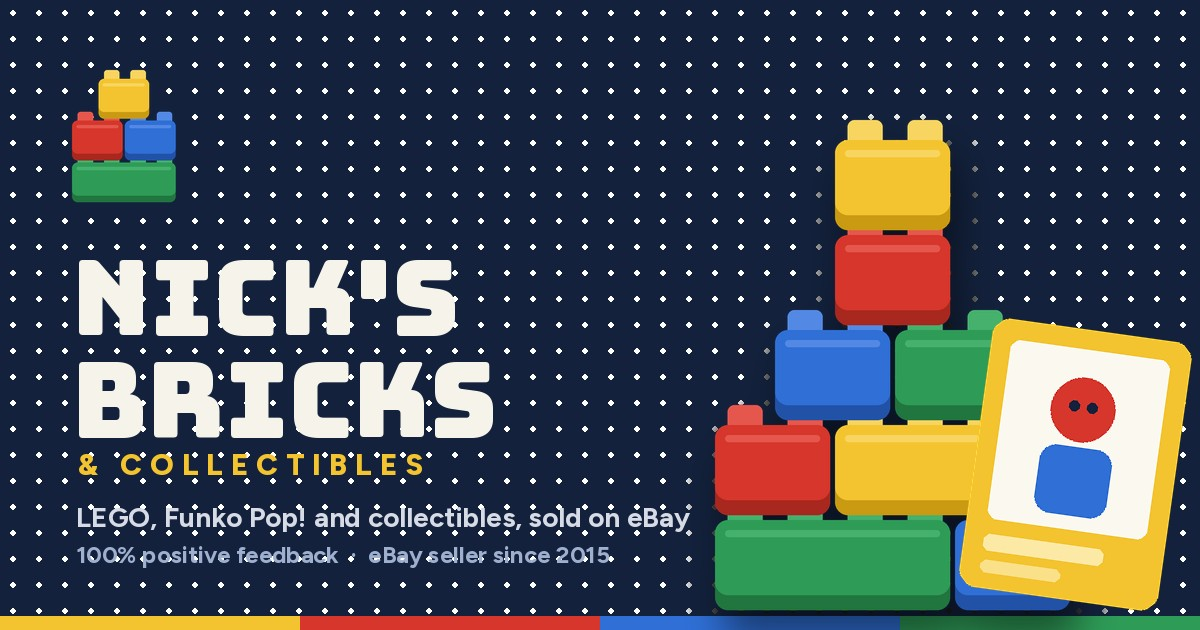
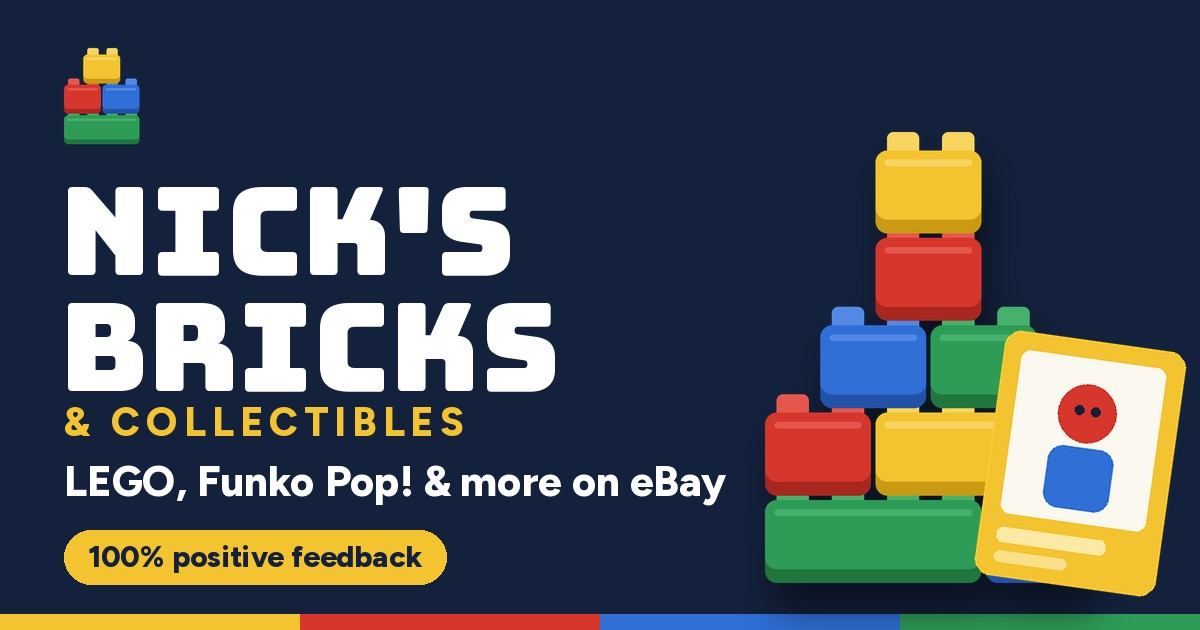
Nick's Bricks: bigger, easier-to-read link-preview image

diff --git a/demos/nicks-bricks/index.html b/demos/nicks-bricks/index.html
@@ -16,7 +16,7 @@ j=d.createElement(s),dl=l!='dataLayer'?'&l='+l:'';j.async=true;j.src=
 <meta name="robots" content="noindex, follow">
 <meta name="theme-color" content="#13213c">
 <meta property="og:type" content="website">
-<meta property="og:title" content="Nick&#x27;s Bricks &amp; Collectibles | LEGO, Funko Pop! and collectibles on eBay"><meta property="og:url" content="https://camclarkmarketing.com/demos/nicks-bricks/"><meta property="og:image" content="https://camclarkmarketing.com/demos/nicks-bricks/assets/og-image.jpg?v=1"><meta property="og:image:width" content="1200"><meta property="og:image:height" content="630"><meta property="og:image:alt" content="Nick&#x27;s Bricks &amp; Collectibles logo with a stack of toy bricks and the line LEGO, Funko Pop! and collectibles, sold on eBay"><meta name="twitter:card" content="summary_large_image"><meta name="twitter:image" content="https://camclarkmarketing.com/demos/nicks-bricks/assets/og-image.jpg?v=1">
+<meta property="og:title" content="Nick&#x27;s Bricks &amp; Collectibles | LEGO, Funko Pop! and collectibles on eBay"><meta property="og:url" content="https://camclarkmarketing.com/demos/nicks-bricks/"><meta property="og:image" content="https://camclarkmarketing.com/demos/nicks-bricks/assets/og-image.jpg?v=2"><meta property="og:image:width" content="1200"><meta property="og:image:height" content="630"><meta property="og:image:alt" content="Nick&#x27;s Bricks &amp; Collectibles logo with a stack of toy bricks, the line LEGO, Funko Pop! &amp; more on eBay, and 100% positive feedback"><meta name="twitter:card" content="summary_large_image"><meta name="twitter:image" content="https://camclarkmarketing.com/demos/nicks-bricks/assets/og-image.jpg?v=2">
 <meta property="og:description" content="Shop LEGO, Funko Pop! figures, sports collectibles and gaming gear from Nick&#x27;s Bricks &amp; Collectibles, sold on eBay with a 100% positive feedback record.">
 <link rel="icon" href="assets/favicon.svg" type="image/svg+xml"><link rel="icon" href="assets/favicon-64.png" type="image/png" sizes="64x64"><link rel="apple-touch-icon" href="assets/apple-touch-icon.png">
 <link rel="preconnect" href="https://fonts.googleapis.com">

diff --git a/demos/nicks-bricks/shop.html b/demos/nicks-bricks/shop.html
@@ -16,7 +16,7 @@ j=d.createElement(s),dl=l!='dataLayer'?'&l='+l:'';j.async=true;j.src=
 <meta name="robots" content="noindex, follow">
 <meta name="theme-color" content="#13213c">
 <meta property="og:type" content="website">
-<meta property="og:title" content="Shop by category | Nick&#x27;s Bricks &amp; Collectibles"><meta property="og:url" content="https://camclarkmarketing.com/demos/nicks-bricks/shop.html"><meta property="og:image" content="https://camclarkmarketing.com/demos/nicks-bricks/assets/og-image.jpg?v=1"><meta property="og:image:width" content="1200"><meta property="og:image:height" content="630"><meta property="og:image:alt" content="Nick&#x27;s Bricks &amp; Collectibles logo with a stack of toy bricks and the line LEGO, Funko Pop! and collectibles, sold on eBay"><meta name="twitter:card" content="summary_large_image"><meta name="twitter:image" content="https://camclarkmarketing.com/demos/nicks-bricks/assets/og-image.jpg?v=1">
+<meta property="og:title" content="Shop by category | Nick&#x27;s Bricks &amp; Collectibles"><meta property="og:url" content="https://camclarkmarketing.com/demos/nicks-bricks/shop.html"><meta property="og:image" content="https://camclarkmarketing.com/demos/nicks-bricks/assets/og-image.jpg?v=2"><meta property="og:image:width" content="1200"><meta property="og:image:height" content="630"><meta property="og:image:alt" content="Nick&#x27;s Bricks &amp; Collectibles logo with a stack of toy bricks, the line LEGO, Funko Pop! &amp; more on eBay, and 100% positive feedback"><meta name="twitter:card" content="summary_large_image"><meta name="twitter:image" content="https://camclarkmarketing.com/demos/nicks-bricks/assets/og-image.jpg?v=2">
 <meta property="og:description" content="Browse Nick&#x27;s eBay listings by category: LEGO sets and minifigures, Funko Pop! figures, sports collectibles, video games and consoles, laptops and tech.">
 <link rel="icon" href="assets/favicon.svg" type="image/svg+xml"><link rel="icon" href="assets/favicon-64.png" type="image/png" sizes="64x64"><link rel="apple-touch-icon" href="assets/apple-touch-icon.png">
 <link rel="preconnect" href="https://fonts.googleapis.com">

diff --git a/demos/nicks-bricks/sold.html b/demos/nicks-bricks/sold.html
@@ -16,7 +16,7 @@ j=d.createElement(s),dl=l!='dataLayer'?'&l='+l:'';j.async=true;j.src=
 <meta name="robots" content="noindex, follow">
 <meta name="theme-color" content="#13213c">
 <meta property="og:type" content="website">
-<meta property="og:title" content="Recently sold | Nick&#x27;s Bricks &amp; Collectibles"><meta property="og:url" content="https://camclarkmarketing.com/demos/nicks-bricks/sold.html"><meta property="og:image" content="https://camclarkmarketing.com/demos/nicks-bricks/assets/og-image.jpg?v=1"><meta property="og:image:width" content="1200"><meta property="og:image:height" content="630"><meta property="og:image:alt" content="Nick&#x27;s Bricks &amp; Collectibles logo with a stack of toy bricks and the line LEGO, Funko Pop! and collectibles, sold on eBay"><meta name="twitter:card" content="summary_large_image"><meta name="twitter:image" content="https://camclarkmarketing.com/demos/nicks-bricks/assets/og-image.jpg?v=1">
+<meta property="og:title" content="Recently sold | Nick&#x27;s Bricks &amp; Collectibles"><meta property="og:url" content="https://camclarkmarketing.com/demos/nicks-bricks/sold.html"><meta property="og:image" content="https://camclarkmarketing.com/demos/nicks-bricks/assets/og-image.jpg?v=2"><meta property="og:image:width" content="1200"><meta property="og:image:height" content="630"><meta property="og:image:alt" content="Nick&#x27;s Bricks &amp; Collectibles logo with a stack of toy bricks, the line LEGO, Funko Pop! &amp; more on eBay, and 100% positive feedback"><meta name="twitter:card" content="summary_large_image"><meta name="twitter:image" content="https://camclarkmarketing.com/demos/nicks-bricks/assets/og-image.jpg?v=2">
 <meta property="og:description" content="Items Nick has sold on eBay, from a PlayStation 5 Pro to anime and MLB Funko Pop! figures, with real buyer feedback.">
 <link rel="icon" href="assets/favicon.svg" type="image/svg+xml"><link rel="icon" href="assets/favicon-64.png" type="image/png" sizes="64x64"><link rel="apple-touch-icon" href="assets/apple-touch-icon.png">
 <link rel="preconnect" href="https://fonts.googleapis.com">

diff --git a/demos/nicks-bricks/about.html b/demos/nicks-bricks/about.html
@@ -16,7 +16,7 @@ j=d.createElement(s),dl=l!='dataLayer'?'&l='+l:'';j.async=true;j.src=
 <meta name="robots" content="noindex, follow">
 <meta name="theme-color" content="#13213c">
 <meta property="og:type" content="website">
-<meta property="og:title" content="About Nick | Nick&#x27;s Bricks &amp; Collectibles"><meta property="og:url" content="https://camclarkmarketing.com/demos/nicks-bricks/about.html"><meta property="og:image" content="https://camclarkmarketing.com/demos/nicks-bricks/assets/og-image.jpg?v=1"><meta property="og:image:width" content="1200"><meta property="og:image:height" content="630"><meta property="og:image:alt" content="Nick&#x27;s Bricks &amp; Collectibles logo with a stack of toy bricks and the line LEGO, Funko Pop! and collectibles, sold on eBay"><meta name="twitter:card" content="summary_large_image"><meta name="twitter:image" content="https://camclarkmarketing.com/demos/nicks-bricks/assets/og-image.jpg?v=1">
+<meta property="og:title" content="About Nick | Nick&#x27;s Bricks &amp; Collectibles"><meta property="og:url" content="https://camclarkmarketing.com/demos/nicks-bricks/about.html"><meta property="og:image" content="https://camclarkmarketing.com/demos/nicks-bricks/assets/og-image.jpg?v=2"><meta property="og:image:width" content="1200"><meta property="og:image:height" content="630"><meta property="og:image:alt" content="Nick&#x27;s Bricks &amp; Collectibles logo with a stack of toy bricks, the line LEGO, Funko Pop! &amp; more on eBay, and 100% positive feedback"><meta name="twitter:card" content="summary_large_image"><meta name="twitter:image" content="https://camclarkmarketing.com/demos/nicks-bricks/assets/og-image.jpg?v=2">
 <meta property="og:description" content="Meet Nick, an eBay seller since 2015 with 100% positive feedback, selling LEGO, Funko Pop! figures and collectibles.">
 <link rel="icon" href="assets/favicon.svg" type="image/svg+xml"><link rel="icon" href="assets/favicon-64.png" type="image/png" sizes="64x64"><link rel="apple-touch-icon" href="assets/apple-touch-icon.png">
 <link rel="preconnect" href="https://fonts.googleapis.com">

diff --git a/demos/nicks-bricks/contact.html b/demos/nicks-bricks/contact.html
@@ -16,7 +16,7 @@ j=d.createElement(s),dl=l!='dataLayer'?'&l='+l:'';j.async=true;j.src=
 <meta name="robots" content="noindex, follow">
 <meta name="theme-color" content="#13213c">
 <meta property="og:type" content="website">
-<meta property="og:title" content="Contact | Nick&#x27;s Bricks &amp; Collectibles"><meta property="og:url" content="https://camclarkmarketing.com/demos/nicks-bricks/contact.html"><meta property="og:image" content="https://camclarkmarketing.com/demos/nicks-bricks/assets/og-image.jpg?v=1"><meta property="og:image:width" content="1200"><meta property="og:image:height" content="630"><meta property="og:image:alt" content="Nick&#x27;s Bricks &amp; Collectibles logo with a stack of toy bricks and the line LEGO, Funko Pop! and collectibles, sold on eBay"><meta name="twitter:card" content="summary_large_image"><meta name="twitter:image" content="https://camclarkmarketing.com/demos/nicks-bricks/assets/og-image.jpg?v=1">
+<meta property="og:title" content="Contact | Nick&#x27;s Bricks &amp; Collectibles"><meta property="og:url" content="https://camclarkmarketing.com/demos/nicks-bricks/contact.html"><meta property="og:image" content="https://camclarkmarketing.com/demos/nicks-bricks/assets/og-image.jpg?v=2"><meta property="og:image:width" content="1200"><meta property="og:image:height" content="630"><meta property="og:image:alt" content="Nick&#x27;s Bricks &amp; Collectibles logo with a stack of toy bricks, the line LEGO, Funko Pop! &amp; more on eBay, and 100% positive feedback"><meta name="twitter:card" content="summary_large_image"><meta name="twitter:image" content="https://camclarkmarketing.com/demos/nicks-bricks/assets/og-image.jpg?v=2">
 <meta property="og:description" content="Message Nick on eBay about an item, combined shipping or something you&#x27;re looking for.">
 <link rel="icon" href="assets/favicon.svg" type="image/svg+xml"><link rel="icon" href="assets/favicon-64.png" type="image/png" sizes="64x64"><link rel="apple-touch-icon" href="assets/apple-touch-icon.png">
 <link rel="preconnect" href="https://fonts.googleapis.com">
